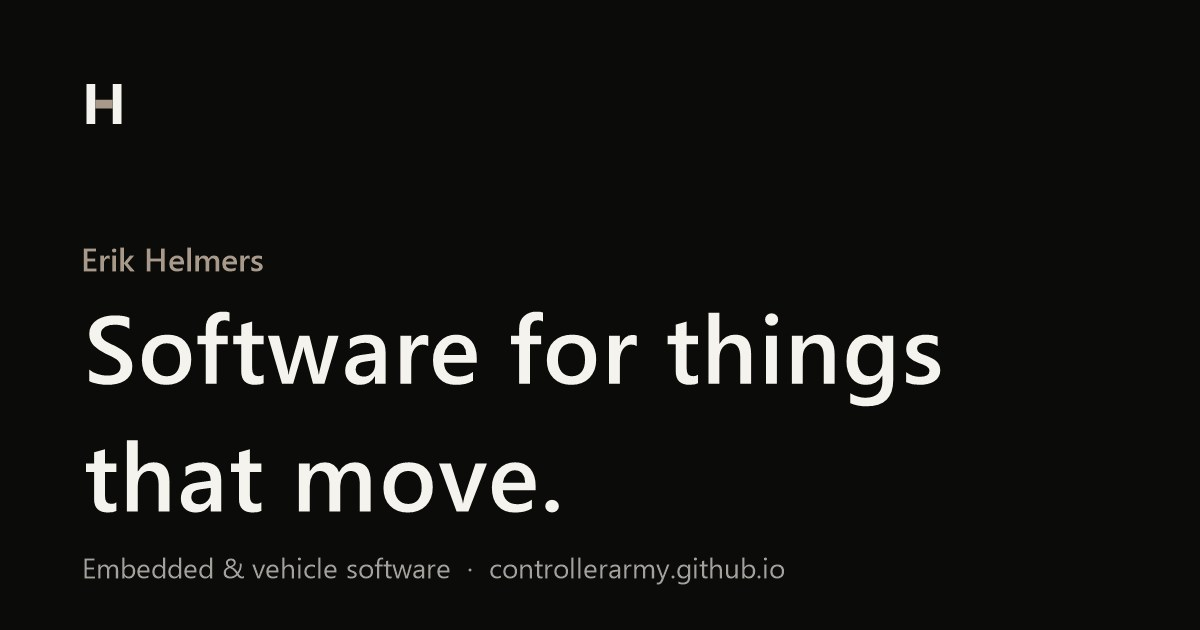
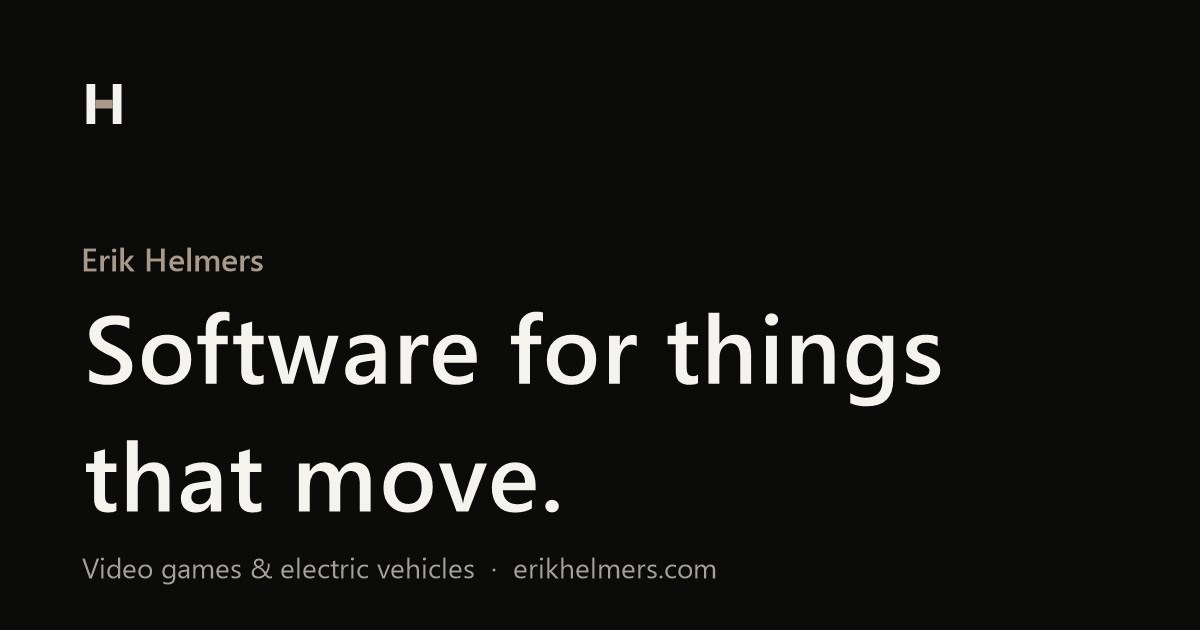
Updates

Changed region(s): [[0.0617, 0.8746, 0.6475, 0.9349]]

diff --git a/js/main.js b/js/main.js
@@ -23,6 +23,8 @@
      link      The big button in the detail view, or null to hide it.
      cover     Card + detail image, 1600 × 900.
      coverAlt  Describes the cover image for screen readers.
+     coverFocus  Optional. Which part of the cover stays in frame if it gets
+               cropped, as "x% y%" (see "focus" under GALLERY below).
      shots     Any number of extra screenshots, 1600 × 900 each.
 
    Put the images in assets/projects/<slug>/.
@@ -118,17 +120,30 @@ const PROJECTS = [
 /* ==========================================================================
    GALLERY  (EDIT ME)
    --------------------------------------------------------------------------
-   One line per photo. Put the files in assets/gallery/.
+   One line per photo. Don't upload camera files directly: put them in
+   originals/ and run tools/resize-photos.ps1, which makes a 2400px copy in
+   assets/gallery/ (full-screen viewer) and a 1600px copy in
+   assets/gallery/thumbs/ (grid). It prints the src to use here.
      alt      Describes the photo for screen readers (required).
      caption  Shown under the photo in the lightbox. "" for none.
      shape    "wide" = spans 2 columns, "tall" = spans 2 rows, "" = normal.
-              Landscape photos: 2000 × 1333. Portrait ("tall"): 1333 × 2000.
+
+   Framing (optional). The grid crops photos to fit their box; the
+   full-screen viewer always shows the whole photo.
+     focus    The point to keep in frame, as "x% y%" from the top-left.
+              "50% 50%" = center (default), "85% 50%" = right side,
+              "50% 20%" = near the top. Words work too: "left", "bottom".
+     zoom     Crop in tighter around the focus point. 1 = none, 1.3 = 30%.
+              Values below 1 can't zoom out; use a different shape instead
+              (a landscape photo in a "tall" box loses about half its width).
+   Example:  { src: "...", alt: "...", caption: "", shape: "tall", focus: "85% 50%", zoom: 1.2 },
+
    The current mix of shapes fills the grid evenly. If you add or remove
    photos and see a gap, try changing a shape.
    ========================================================================== */
 const GALLERY = [
   { src: "assets/gallery/photo-01.jpg", alt: "Car photo 1", caption: "", shape: "wide" },
-  { src: "assets/gallery/photo-02.jpg", alt: "Car photo 2", caption: "", shape: "tall" },
+  { src: "assets/gallery/photo-02.jpg", alt: "Car photo 2", caption: "", shape: "tall", focus: "85% 50%" },
   { src: "assets/gallery/photo-03.jpg", alt: "Car photo 3", caption: "", shape: "" },
   { src: "assets/gallery/photo-04.jpg", alt: "Car photo 4", caption: "", shape: "" },
   { src: "assets/gallery/photo-05.jpg", alt: "Car photo 5", caption: "", shape: "" },
@@ -172,15 +187,33 @@ function syncScrollLock() {
    Images that fail to load (because you haven't added them yet) turn into a
    striped box showing the exact path and size the site expects. */
 
-function mediaHTML(src, alt, size, className = "", { eager = false } = {}) {
-  return `<div class="media ${className}" data-label="${escapeHTML(src)}&#10;${escapeHTML(size)}"><img src="${escapeHTML(src)}" alt="${escapeHTML(alt)}"${eager ? "" : ' loading="lazy"'} decoding="async"></div>`;
+// `fallback`: a second file to try if `src` is missing (e.g. full photo when
+// its thumbnail hasn't been generated yet).
+// `focus` / `zoom`: framing for cropped images (see GALLERY notes above).
+function mediaHTML(src, alt, size, className = "", { eager = false, fallback = "", focus = "", zoom = 0 } = {}) {
+  const label = fallback || src;
+  const fallbackAttr = fallback ? ` data-fallback="${escapeHTML(fallback)}"` : "";
+  const framing = [
+    focus ? `--focus: ${focus}` : "",
+    Number(zoom) > 0 ? `--zoom: ${Number(zoom)}` : "",
+  ].filter(Boolean).join("; ");
+  const styleAttr = framing ? ` style="${escapeHTML(framing)}"` : "";
+  return `<div class="media ${className}" data-label="${escapeHTML(label)}&#10;${escapeHTML(size)}"><img src="${escapeHTML(src)}"${fallbackAttr}${styleAttr} alt="${escapeHTML(alt)}"${eager ? "" : ' loading="lazy"'} decoding="async"></div>`;
 }
 
 function initImagePlaceholders() {
   const setMissing = (img, missing) => img.closest(".media")?.classList.toggle("is-missing", missing);
 
+  const handleBroken = (img) => {
+    if (img.dataset.fallback && img.getAttribute("src") !== img.dataset.fallback) {
+      img.src = img.dataset.fallback;
+    } else {
+      setMissing(img, true);
+    }
+  };
+
   document.addEventListener("error", (event) => {
-    if (event.target instanceof HTMLImageElement) setMissing(event.target, true);
+    if (event.target instanceof HTMLImageElement) handleBroken(event.target);
   }, true);
 
   document.addEventListener("load", (event) => {
@@ -189,7 +222,7 @@ function initImagePlaceholders() {
 
   // Catch images that already failed before this script ran.
   $$(".media img").forEach((img) => {
-    if (img.complete && img.naturalWidth === 0) setMissing(img, true);
+    if (img.complete && img.naturalWidth === 0) handleBroken(img);
   });
 }
 
@@ -209,7 +242,7 @@ function renderProjects() {
   list.innerHTML = PROJECTS.map((project) => `
     <li class="project-card" data-reveal>
       <a class="project-link" href="#project/${escapeHTML(project.slug)}">
-        ${mediaHTML(project.cover, "", "1600 × 900")}
+        ${mediaHTML(project.cover, "", "1600 × 900", "", { focus: project.coverFocus })}
         <div class="project-body">
           <h3 class="project-title">${escapeHTML(project.title)}</h3>
           ${projectMeta(project) ? `<p class="project-meta">${projectMeta(project)}</p>` : ""}
@@ -239,7 +272,7 @@ function projectDetailHTML(project) {
         </a>` : ""}
     </header>
 
-    ${mediaHTML(project.cover, project.coverAlt, "1600 × 900", "pd-cover", { eager: true })}
+    ${mediaHTML(project.cover, project.coverAlt, "1600 × 900", "pd-cover", { eager: true, focus: project.coverFocus })}
 
     <section class="pd-columns" aria-labelledby="pd-built">
       <h3 class="pd-subtitle" id="pd-built">What I built</h3>
@@ -334,7 +367,10 @@ function initProjectDialog() {
 /* ---------- Photography + lightbox ---------------------------------------- */
 
 const photoSize = (photo) =>
-  photo.shape === "tall" ? "1333 × 2000 (portrait)" : "2000 × 1333 (landscape)";
+  photo.shape === "tall" ? "1600 × 2400 (portrait)" : "2400 × 1600 (landscape)";
+
+// assets/gallery/photo-01.jpg -> assets/gallery/thumbs/photo-01.jpg
+const thumbFor = (src) => src.replace(/([^/]+)$/, "thumbs/$1");
 
 function renderGallery() {
   const list = $("[data-gallery]");
@@ -343,7 +379,7 @@ function renderGallery() {
   list.innerHTML = GALLERY.map((photo, i) => `
     <li class="gallery-item${photo.shape ? ` gallery-item--${escapeHTML(photo.shape)}` : ""}" data-reveal>
       <button class="gallery-btn" type="button" data-index="${i}" aria-label="View larger: ${escapeHTML(photo.alt)}">
-        ${mediaHTML(photo.src, "", photoSize(photo))}
+        ${mediaHTML(thumbFor(photo.src), "", photoSize(photo), "", { fallback: photo.src, focus: photo.focus, zoom: photo.zoom })}
       </button>
     </li>`).join("");
 }

diff --git a/index.html b/index.html
@@ -11,15 +11,15 @@
   <title>Erik Helmers</title>
   <meta name="description" content="Erik Helmers is a Computer Science student at Gonzaga University working toward a career in video games and electric vehicles. Projects, car photography, and resume.">
   <meta name="author" content="Erik Helmers">
-  <link rel="canonical" href="https://controllerarmy.github.io/">
+  <link rel="canonical" href="https://erikhelmers.com/">
   <meta name="theme-color" content="#0b0b0a">
 
   <meta property="og:type" content="website">
   <meta property="og:site_name" content="Erik Helmers">
   <meta property="og:title" content="Erik Helmers">
   <meta property="og:description" content="Computer Science at Gonzaga University. Working toward a career in video games and electric vehicles. Projects, car photography, and resume.">
-  <meta property="og:url" content="https://controllerarmy.github.io/">
-  <meta property="og:image" content="https://controllerarmy.github.io/assets/og-image.jpg">
+  <meta property="og:url" content="https://erikhelmers.com/">
+  <meta property="og:image" content="https://erikhelmers.com/assets/og-image.jpg">
   <meta property="og:image:width" content="1200">
   <meta property="og:image:height" content="630">
   <meta property="og:image:alt" content="Erik Helmers — Software for things that move.">
@@ -64,10 +64,13 @@
     <!-- =================================================================
          HERO  (EDIT: headline + one line)
          Background photo: assets/images/hero.jpg, 2400 × 1350
+         The photo is cropped to fill the screen. To choose what stays in
+         frame, change --focus on the <img>: "x% y%" from the top-left,
+         e.g. "50% 70%" keeps the lower part, "30% 50%" the left side.
          ================================================================= -->
     <section class="hero theme-dark" id="top" aria-labelledby="hero-title">
       <div class="hero-media media" data-label="assets/images/hero.jpg&#10;2400 × 1350 (landscape)">
-        <img src="assets/images/hero.jpg" alt="" width="2400" height="1350" fetchpriority="high" decoding="async">
+        <img src="assets/images/hero.jpg" alt="" width="2400" height="1350" fetchpriority="high" decoding="async" style="--focus: 50% 50%">
       </div>
       <div class="hero-content container">
         <p class="eyebrow">Erik Helmers</p>
@@ -307,7 +310,7 @@
 
   <footer class="site-footer theme-dark">
     <div class="container footer-inner">
-      <p>© <span data-year>2026</span> Erik Helmers</p>
+      <p>Erik Helmers</p>
       <a href="#top">Back to top <span aria-hidden="true">↑</span></a>
     </div>
   </footer>

diff --git a/css/styles.css b/css/styles.css
@@ -362,10 +362,13 @@ button {
   background-color: var(--bg-raised);
 }
 
+/* --focus picks which part of a cropped photo stays in frame ("x% y%",
+   0% 0% = top-left). Set per photo in main.js, or inline on the hero. */
 .media img {
   width: 100%;
   height: 100%;
   object-fit: cover;
+  object-position: var(--focus, 50% 50%);
 }
 
 .media.is-missing {
@@ -868,12 +871,15 @@ button {
   border-radius: var(--radius-md);
 }
 
+/* --zoom (set per photo in main.js) crops in tighter around --focus. */
 .gallery-btn img {
+  transform: scale(var(--zoom, 1));
+  transform-origin: var(--focus, 50% 50%);
   transition: transform 0.9s var(--ease-out);
 }
 
 .gallery-btn:hover img {
-  transform: scale(1.04);
+  transform: scale(calc(var(--zoom, 1) * 1.04));
 }
 
 

diff --git a/README.md b/README.md
@@ -1,6 +1,6 @@
-# controllerarmy.github.io
+# erikhelmers.com
 
-Personal portfolio for Erik Helmers. Plain HTML, CSS and JavaScript: no framework, no build step, no npm.
+Personal portfolio for Erik Helmers, hosted on GitHub Pages from the `ControllerArmy.github.io` repo. Plain HTML, CSS and JavaScript: no framework, no build step, no npm.
 
 ```
 index.html          The page. About, Experience and Contact text live here.
@@ -8,6 +8,8 @@ index.html          The page. About, Experience and Contact text live here.
 css/styles.css      All styling. Theme tokens are at the top.
 js/main.js          PROJECTS and GALLERY lists are at the top.
 assets/             Images, icons, share image, resume PDF.
+tools/              resize-photos.ps1: makes web-sized gallery photos.
+originals/          Your full-size photos. Stays on this computer (not uploaded).
 ```
 
 ## Run it locally
@@ -25,7 +27,7 @@ Drop a file in with that name and refresh.
 | `assets/images/hero.jpg` | 2400 × 1350 | 450 KB |
 | `assets/projects/<slug>/cover.jpg` | 1600 × 900 | 250 KB |
 | `assets/projects/<slug>/shot-1.jpg`, `shot-2.jpg`, ... | 1600 × 900 | 250 KB each |
-| `assets/gallery/photo-01.jpg` ... `photo-09.jpg` | 2000 × 1333 landscape, 1333 × 2000 for `"tall"` | 400 KB each |
+| Gallery photos | made for you by `tools/resize-photos.ps1` (see "Add a photo") | |
 | `assets/og-image.jpg` (link preview, already made) | 1200 × 630 | 300 KB |
 
 Project slugs: `pathfinder`, `grog-n-gold`, `scally-and-wag`, `helm-launcher`.
@@ -41,17 +43,53 @@ To use `.webp` instead, change the extension in `js/main.js` (or `index.html` fo
 3. Change the values. Comments at the top of the list explain each field. Set `link` to `null` to hide the button.
 4. Make a folder `assets/projects/<your-slug>/` and add `cover.jpg` plus any screenshots you listed in `shots`.
 
-Each project gets a shareable link: `https://controllerarmy.github.io/#project/<slug>`.
+Each project gets a shareable link: `https://erikhelmers.com/#project/<slug>`.
 
 ## Add a photo
 
-Add one line to `GALLERY` in `js/main.js`:
+Don't put camera files straight into `assets/`. At 5000+ px and 15–25 MB they look grainy in the grid
+and are far too heavy for visitors. Instead:
 
-```js
-{ src: "assets/gallery/photo-10.jpg", alt: "Red 911 at sunset", caption: "Laguna Seca, 2026", shape: "" },
-```
+1. Copy the full-size photo into `originals/`, e.g. `originals/photo-10.jpg`.
+2. Run the resizer from this folder. It makes a 2400px copy in `assets/gallery/` for the full-screen viewer
+   and a 1600px copy in `assets/gallery/thumbs/` for the grid, and prints the `src` to use. You can also
+   right-click the script and choose **Run with PowerShell**.
+
+   ```bash
+   powershell -ExecutionPolicy Bypass -File tools/resize-photos.ps1
+   ```
+
+3. Add one line to `GALLERY` in `js/main.js`:
+
+   ```js
+   { src: "assets/gallery/photo-10.jpg", alt: "Red 911 at sunset", caption: "Laguna Seca, 2026", shape: "" },
+   ```
 
 `shape` is `"wide"` (2 columns), `"tall"` (2 rows), or `""`. If the grid shows a gap, change a shape.
+
+### Framing a photo in the grid
+
+The grid crops each photo to fill its box (the full-screen viewer always shows the whole photo).
+Add these to a photo's line to control the crop:
+
+- `focus: "85% 50%"` keeps that point in frame: `x% y%` from the top-left. `"50% 50%"` is the center
+  (the default), `"0% 50%"` the left edge, `"50% 100%"` the bottom.
+- `zoom: 1.3` crops in 30% tighter around the focus point. It can't zoom out: to show more of a photo,
+  give it a shape that matches it (a landscape photo in a `"tall"` box loses about half its width).
+
+```js
+{ src: "assets/gallery/photo-02.jpg", alt: "...", caption: "", shape: "tall", focus: "85% 50%", zoom: 1.2 },
+```
+
+Tweak the numbers, save, refresh. For a permanent crop (one that also applies in the full-screen
+viewer), crop in your photo editor before exporting. The hero photo uses the same `--focus` idea:
+it's on the `<img>` in `index.html`, and project covers take an optional `coverFocus`.
+
+The script is Windows-only. On a Mac, export at 2400px on the long edge (sRGB, ~80% quality) into
+`assets/gallery/`. If there's no thumbnail, the grid just uses that file instead.
+
+`originals/` is in `.gitignore`, so it only exists on this computer. Keep your masters backed up
+somewhere else too (e.g. Dropbox).
 
 ## Change the theme
 
@@ -88,6 +126,30 @@ All colors, fonts, sizes and spacing are CSS variables at the top of `css/styles
    **Deploy from a branch**, Branch to **main**, folder **/ (root)**, then **Save**.
 4. Wait a minute or two (the **Actions** tab shows progress), then visit https://controllerarmy.github.io.
 
+## Custom domain (erikhelmers.com)
+
+The site is served by GitHub Pages; erikhelmers.com just points at it.
+
+- **`CNAME` file:** GitHub created it in the repo root; it contains `erikhelmers.com`. Don't delete it, or
+  the domain stops working.
+- **DNS** is managed at Hover, where the domain is registered. In Hover the nameservers must be Hover's own
+  (`ns1.hover.com`, `ns2.hover.com`); if they point anywhere else (e.g. Wix), Hover's DNS records are ignored.
+  Hover's **DNS** tab needs:
+
+  | Type | Host | Value |
+  | --- | --- | --- |
+  | A | `erikhelmers.com` (or `@`) | `185.199.108.153` |
+  | A | `erikhelmers.com` (or `@`) | `185.199.109.153` |
+  | A | `erikhelmers.com` (or `@`) | `185.199.110.153` |
+  | A | `erikhelmers.com` (or `@`) | `185.199.111.153` |
+  | CNAME | `www` | `controllerarmy.github.io` |
+
+  Remove any other A or CNAME records for `@`, `*` and `www` (like Hover's default parking records).
+  Keep MX records if you use email on this domain.
+- **HTTPS:** once **Settings → Pages** says the DNS check succeeded, tick **Enforce HTTPS**.
+  GitHub issues the certificate; it can take up to an hour or so after DNS updates.
+- `controllerarmy.github.io` automatically redirects to erikhelmers.com.
+
 ## Push updates
 
 ```bash
@@ -107,4 +169,5 @@ The live site updates in about a minute. If you still see the old version, hard-
 - [ ] Helm Launcher: role, dates, summary, bullets and repo link (in `js/main.js`)
 - [ ] PATHFINDER: your role title and language/microcontroller tags
 - [ ] Hero headline and About paragraph: make sure they sound like you
-- [ ] Photo `alt` text: describe each car for screen readers
+- [ ] Photo `alt` text: describe each photo for screen readers
+- [ ] `photo-03` is only 744 × 596: swap in a larger export if you have one
